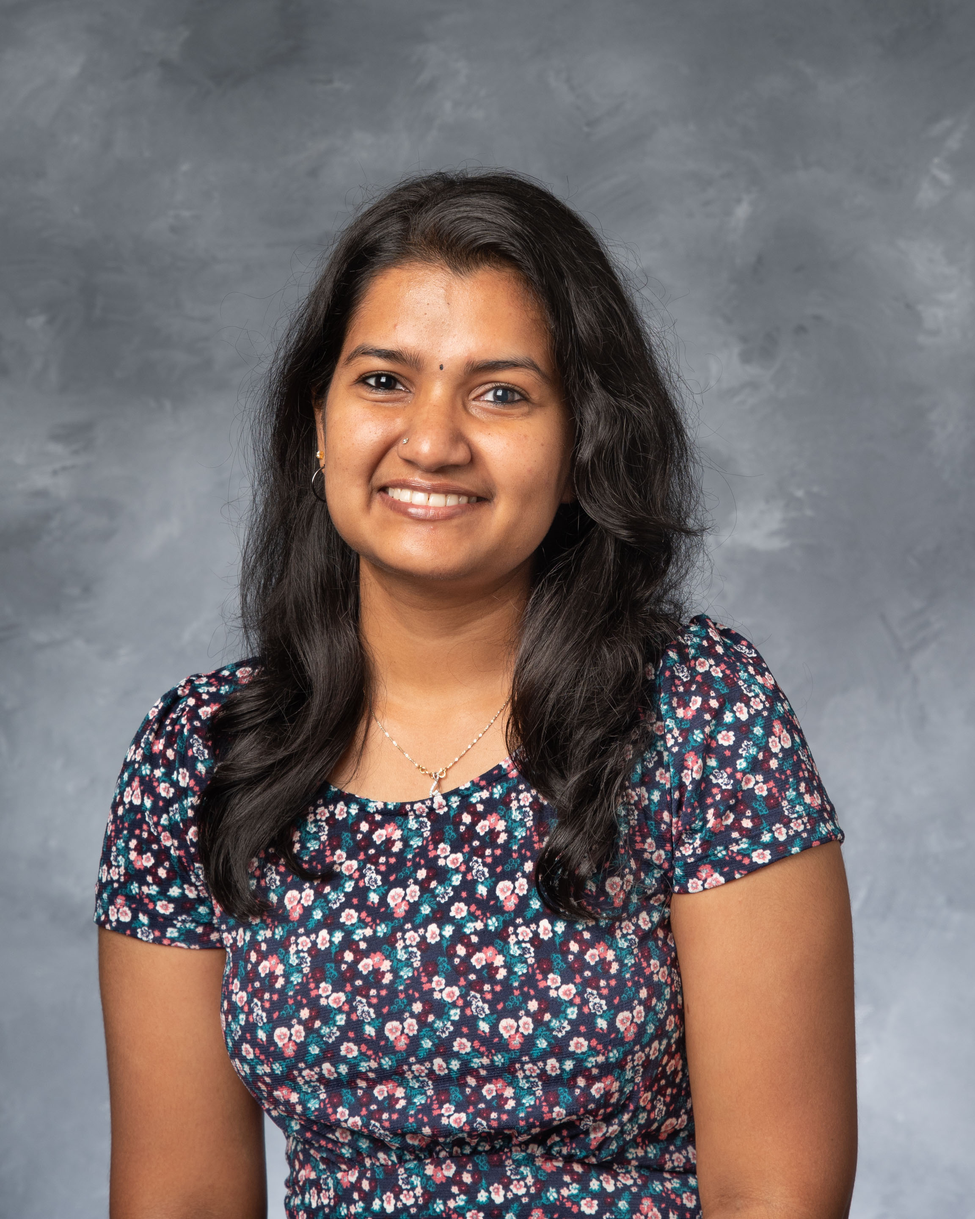
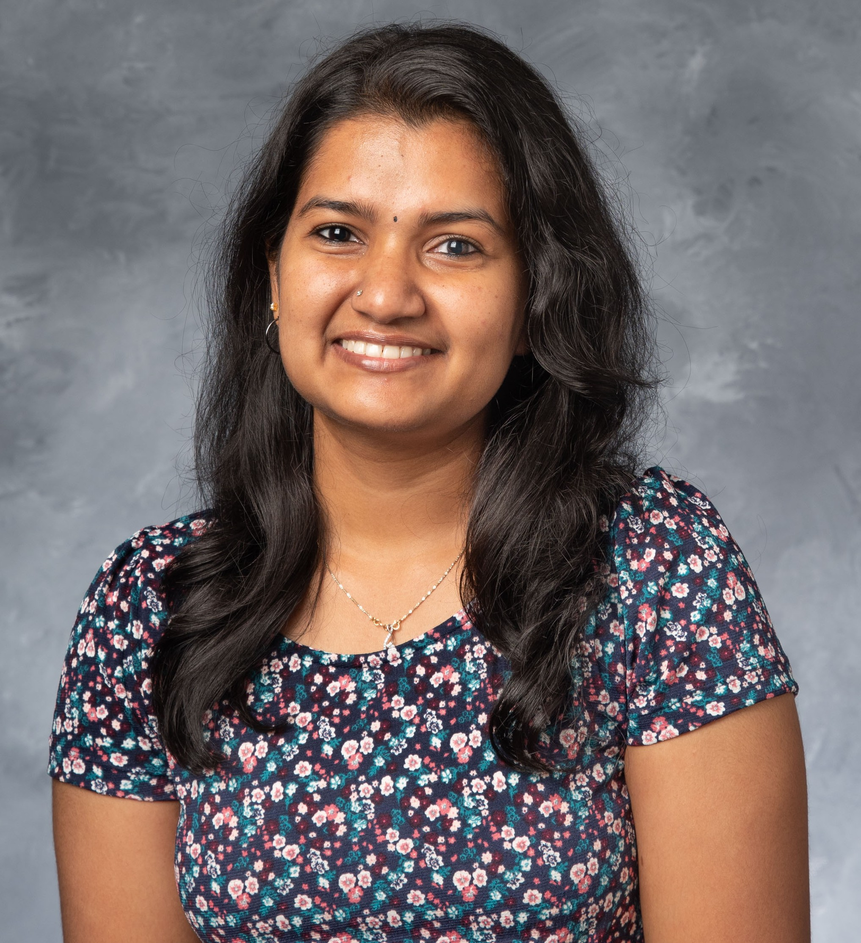
updated img url

diff --git a/index.html b/index.html
@@ -8,14 +8,14 @@
     <!-- Bootstrap CSS -->
     <link rel="stylesheet" href="https://cdn.jsdelivr.net/npm/bootstrap@4.3.1/dist/css/bootstrap.min.css" integrity="sha384-ggOyR0iXCbMQv3Xipma34MD+dH/1fQ784/j6cY/iJTQUOhcWr7x9JvoRxT2MZw1T" crossorigin="anonymous">
     <script src="https://kit.fontawesome.com/32860a1d15.js" crossorigin="anonymous"></script>
-    <link rel="icon" type="image/x-icon" href="https://drive.google.com/file/d/1Er7iOsx4230i8tBTeI9P8hInkqOVA5iZ/view?usp=sharing">
+    <link rel="icon" type="image/x-icon" href="/images/Portfolio_icon.jpeg"> 
     <title>Meet Arathi!</title>
   </head>
   <body>
     <header style ="padding:128px 16px">
       <h1>Arathi Ashok</h1>
       <p>Software Engineer/Data Engineer</p>
-      <img src="https://drive.google.com/file/d/1qyT29CkN9RZeGo87FRcxtnti_QNpN5CF/view?usp=sharing" alt="Profile picture of Arathi Ashok" width="1000" height ="1333">
+      <img src="/images/arathi.jpg" alt="Profile picture of Arathi Ashok" width="1000" height ="1333">
     </header>
 
     <div id ="about" style ="padding:128px 16px">
